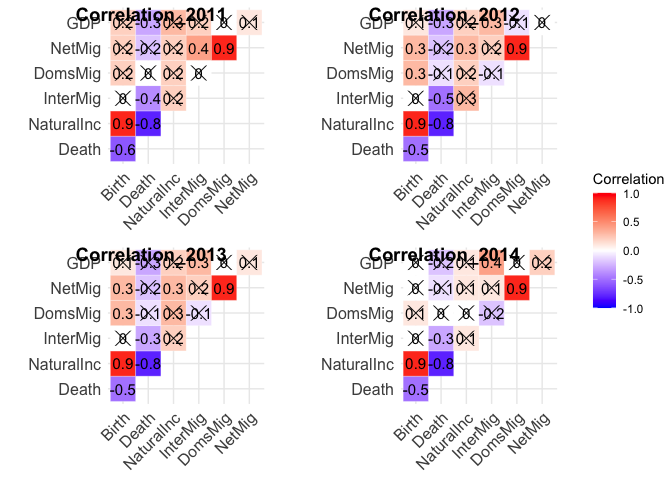
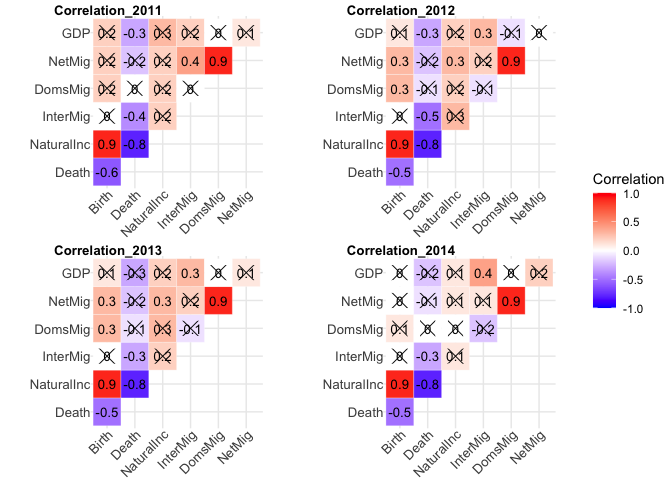
Modify the correlation part

diff --git a/Population_GDP/xinyu_gao.md b/Population_GDP/xinyu_gao.md
@@ -582,7 +582,13 @@ cor_2011 <- ggcorrplot(correlation_matrix_2011,
            type = "upper",
            legend.title = "Correlation",
            lab = TRUE,
-           p.mat = corrp.mat_2011)
+           lab_size = 3.5,
+           p.mat = corrp.mat_2011) +
+           theme(
+             axis.text.x=element_text(size=10, angle=45, vjust=1, hjust=1,margin=margin(-3,0,0,0)),
+             axis.text.y=element_text(size=10, margin=margin(0,-3,0,0)),
+             plot.margin=margin(t=12))
+
 
 POP_GDP_infor_2012 <- POP_GDP_infor %>%
   select(RBIRTH2012,RDEATH2012,RNATURALINC2012,RINTERNATIONALMIG2012,RDOMESTICMIG2012,RNETMIG2012,GDP2011_2012)
@@ -595,7 +601,13 @@ cor_2012 <- ggcorrplot(correlation_matrix_2012,
            type = "upper",
            legend.title = "Correlation",
            lab = TRUE,
-           p.mat = corrp.mat_2012)
+           lab_size = 3.5,
+           p.mat = corrp.mat_2012) + 
+           theme(
+             axis.text.x=element_text(size=10, angle=45, vjust=1, hjust=1,margin=margin(-3,0,0,0)),
+             axis.text.y=element_text(size=10, margin=margin(0,-3,0,0)),
+             plot.margin=margin(t=12))
+
 
 POP_GDP_infor_2013 <- POP_GDP_infor %>%
   select(RBIRTH2013,RDEATH2013,RNATURALINC2013,RINTERNATIONALMIG2013,RDOMESTICMIG2013,RNETMIG2013,GDP2012_2013)
@@ -608,7 +620,12 @@ cor_2013 <- ggcorrplot(correlation_matrix_2013,
            type = "upper",
            legend.title = "Correlation",
            lab = TRUE,
-           p.mat = corrp.mat_2013)
+           lab_size = 3.5,
+           p.mat = corrp.mat_2013)+
+           theme(
+             axis.text.x=element_text(size=10, angle=45, vjust=1, hjust=1,margin=margin(-3,0,0,0)),
+             axis.text.y=element_text(size=10, margin=margin(0,-3,0,0)),
+             plot.margin=margin(t=12))
 
 POP_GDP_infor_2014 <- POP_GDP_infor %>%
   select(RBIRTH2014,RDEATH2014,RNATURALINC2014,RINTERNATIONALMIG2014,RDOMESTICMIG2014,RNETMIG2014,GDP2013_2014)
@@ -622,13 +639,19 @@ cor_2014 <- ggcorrplot(correlation_matrix_2014,
            type = "upper",
            legend.title = "Correlation",
            lab = TRUE,
-           p.mat = corrp.mat_2014)
+           lab_size = 3.5,
+           p.mat = corrp.mat_2014) +
+           theme(
+             axis.text.x=element_text(size=10, angle=45, vjust=1, hjust=1,margin=margin(-3,0,0,0)),
+             axis.text.y=element_text(size=10, margin=margin(0,-3,0,0)),
+             plot.margin=margin(t=12))
 
 ggarrange( cor_2011, cor_2012,cor_2013, cor_2014,
             labels = c("Correlation_2011", "Correlation_2012", "Correlation_2013","Correlation_2014"),
             ncol = 2, nrow = 2,
             common.legend = TRUE,
-            legend = "right")
+            legend = "right",
+            font.label = list(size = 10))
 ```
 
 ![](xinyu_gao_files/figure-gfm/unnamed-chunk-8-1.png)<!-- -->
